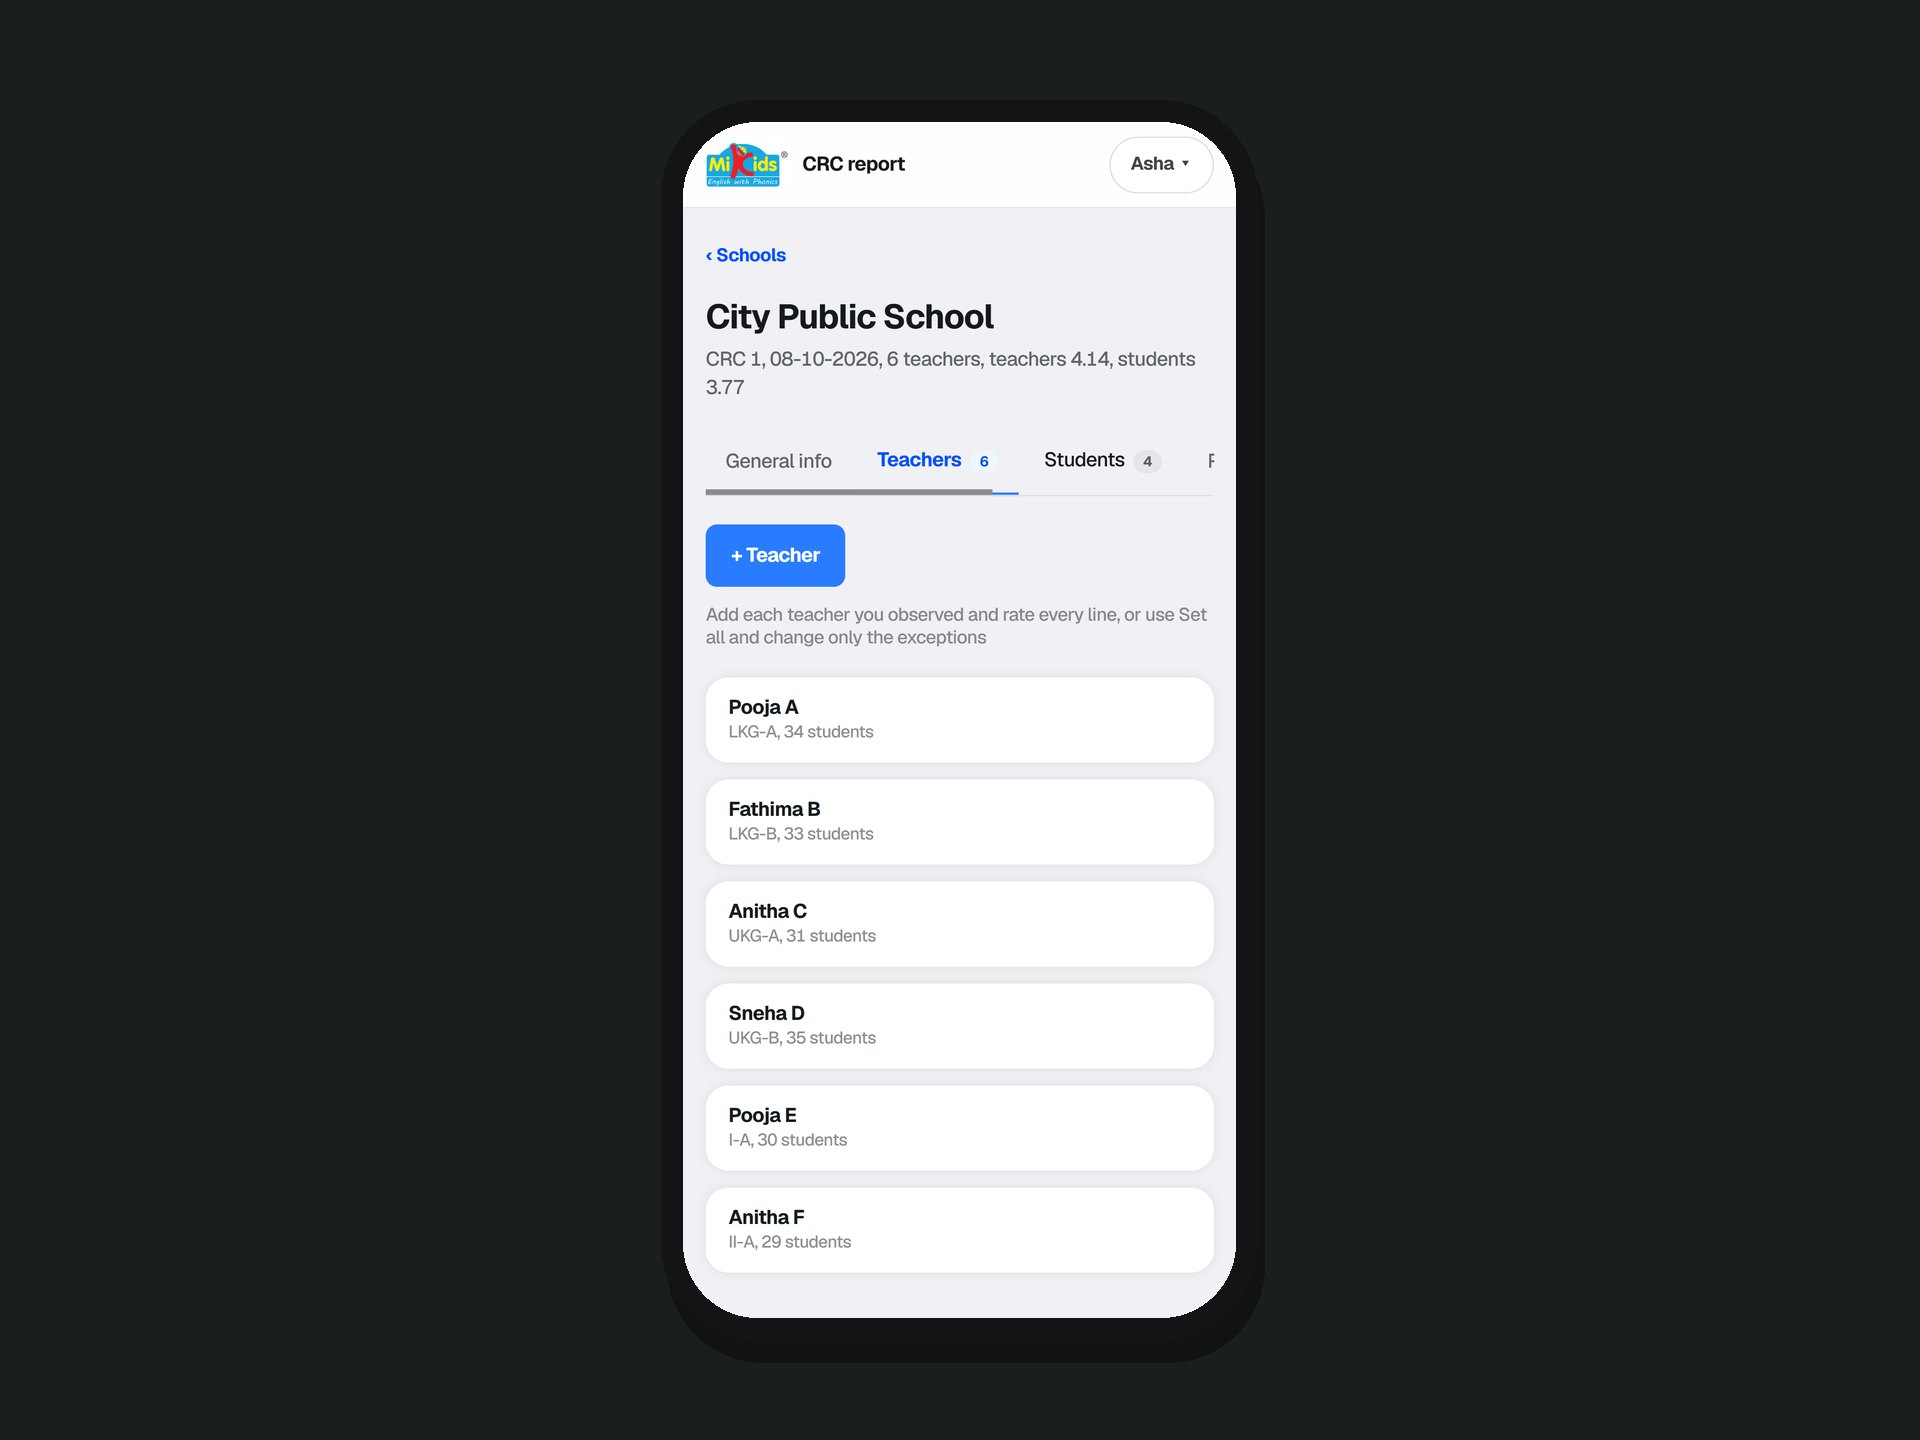
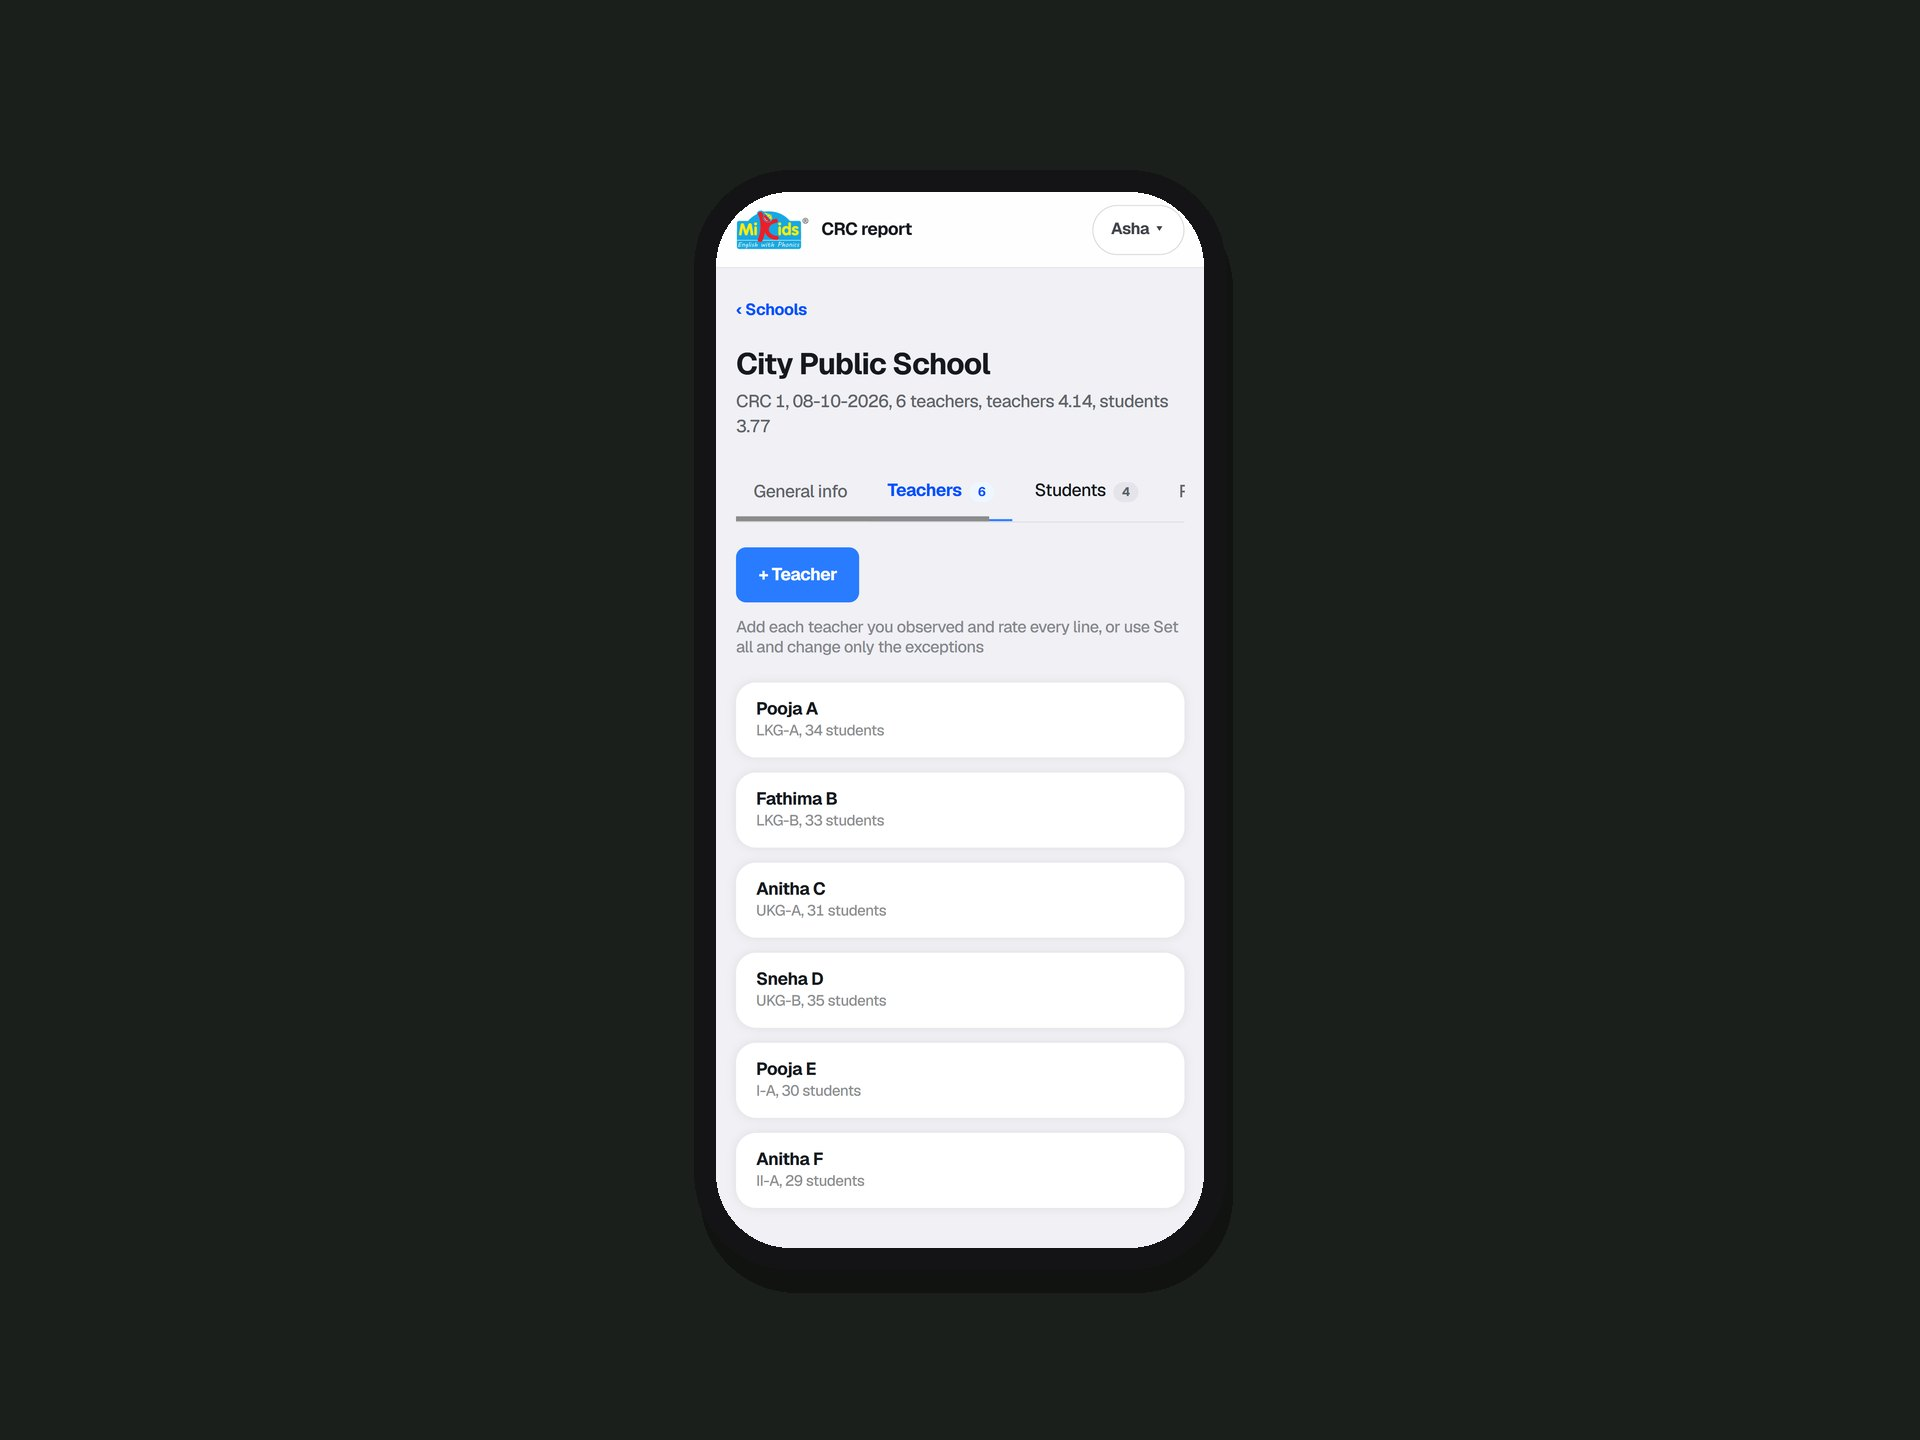
Phone cards: smaller tags and more headroom on the CRC cover

Changed region(s): [[0.3438, 0.0625, 0.6562, 0.9375]]

diff --git a/client/src/work.css b/client/src/work.css
@@ -299,6 +299,8 @@
 @media (max-width: 600px) {
   .work-card { gap: 16px; }
   .work-frame { border-radius: 16px; }
+  .work-tags { top: 10px; left: 10px; gap: 6px; }
+  .work-tag { font-size: 12px; padding: 6px 10px; }
   .work-caption { flex-wrap: wrap; font-size: 16px; }
   .work-year { margin-left: 0; flex-basis: 100%; }
   .works-label { padding: 18px 0 32px; }
